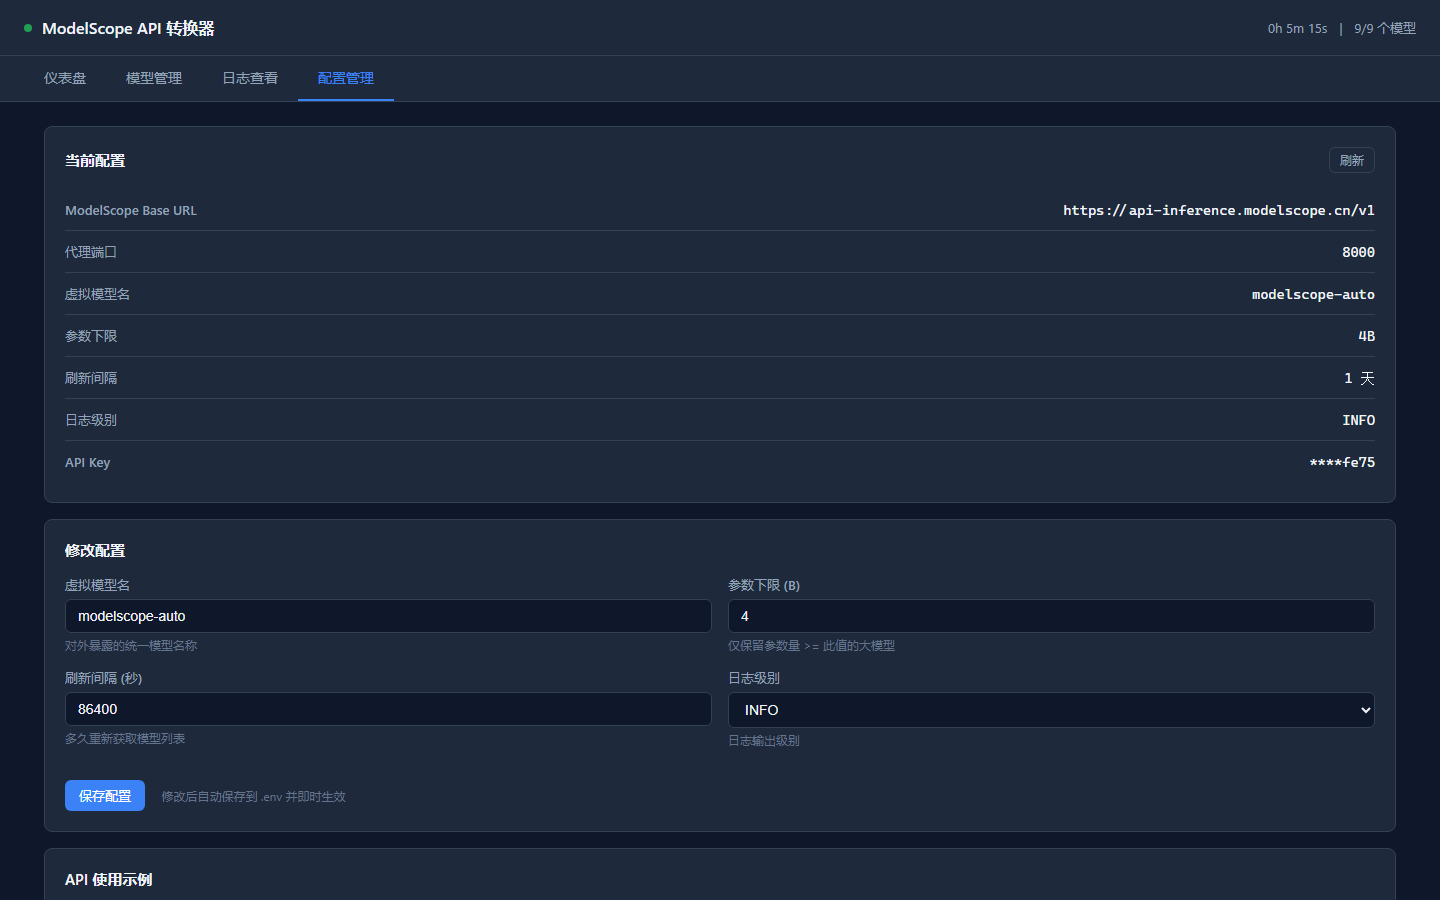
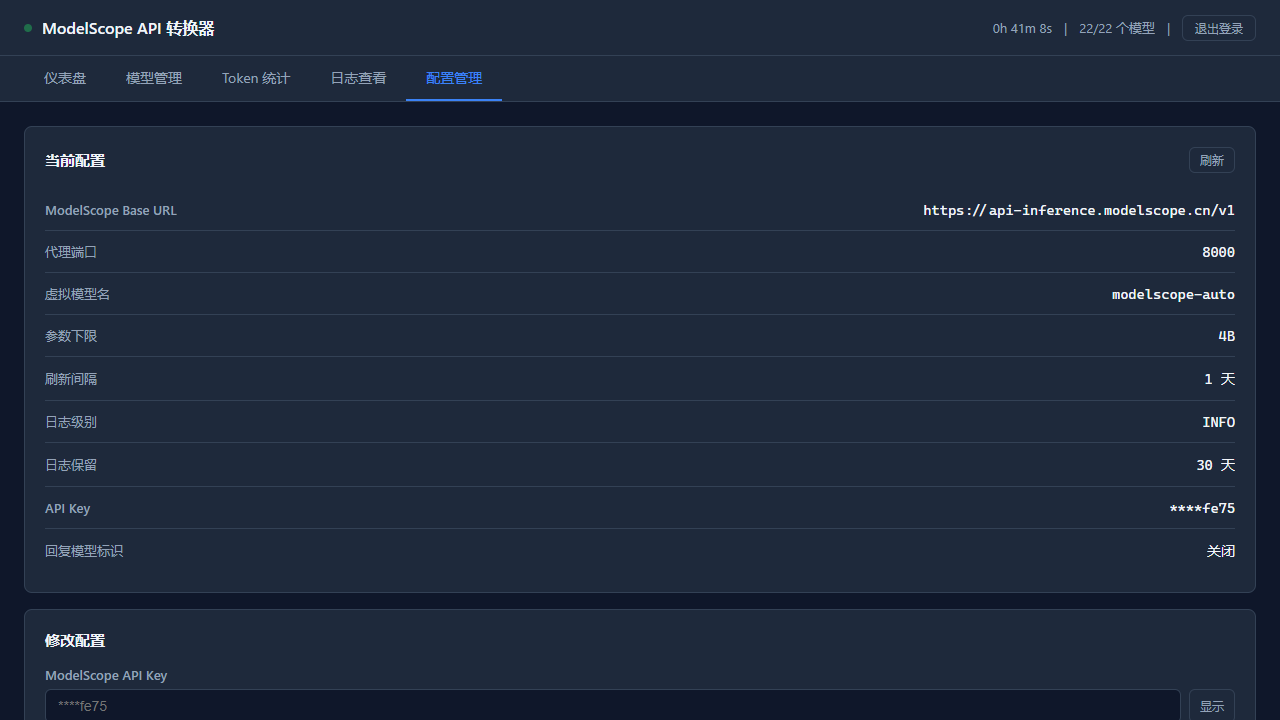
更新管理后台截图：新增登录页和Token统计页，更新仪表盘/日志/配置页截图

diff --git a/README.md b/README.md
@@ -35,17 +35,20 @@ ModelScope 提供了大量免费的大模型 API-Inference 服务，但存在几
 ### 管理后台预览
 
 <div align="center">
+<img src="docs/admin-login.png" width="700" alt="管理后台 - 登录认证"/>
+<p><em>登录认证：用户名密码保护，防止未授权访问</em></p>
+
 <img src="docs/admin-dashboard.png" width="700" alt="管理后台 - 仪表盘"/>
 <p><em>仪表盘：模型数量、运行状态、当前模型一目了然</em></p>
+
+<img src="docs/admin-stats.png" width="700" alt="管理后台 - Token 统计"/>
+<p><em>Token 统计：按模型统计请求数和 Token 用量</em></p>
 
 <img src="docs/admin-logs.png" width="700" alt="管理后台 - 请求日志"/>
 <p><em>请求日志：实时查看请求详情，按级别过滤和关键词搜索</em></p>
 
 <img src="docs/admin-config.png" width="700" alt="管理后台 - 实时配置"/>
 <p><em>实时配置：在线修改参数，即时生效并持久化</em></p>
-
-<img src="docs/admin-stats.png" width="700" alt="管理后台 - Token 统计"/>
-<p><em>Token 统计：按模型统计请求数和 Token 用量</em></p>
 </div>
 
 ### 核心特性
